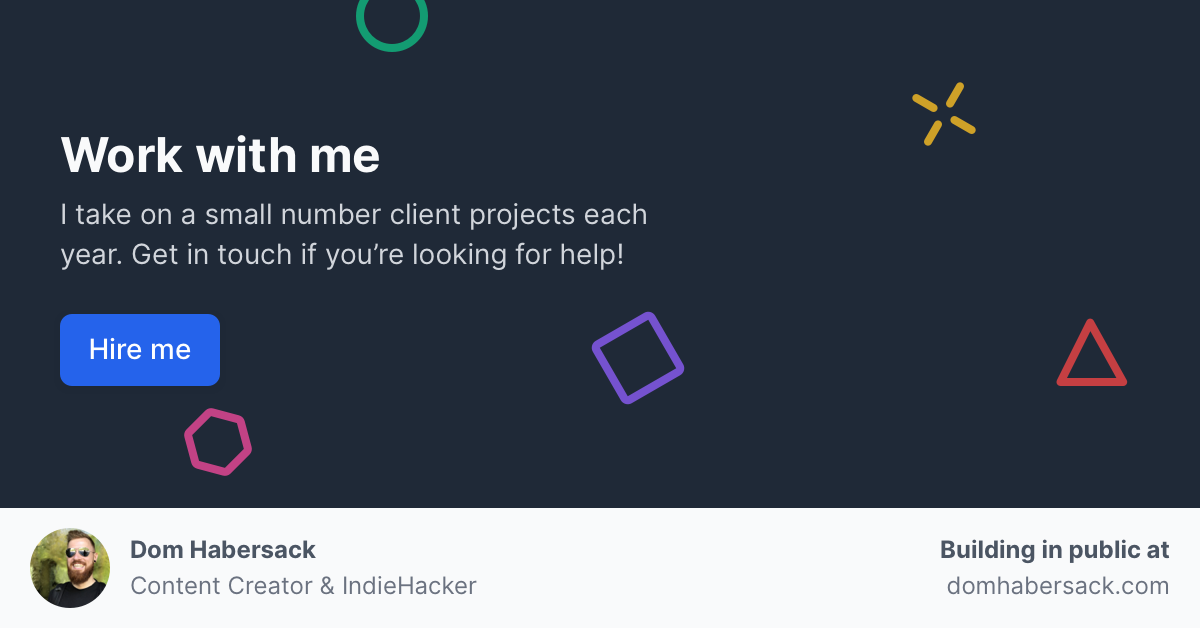
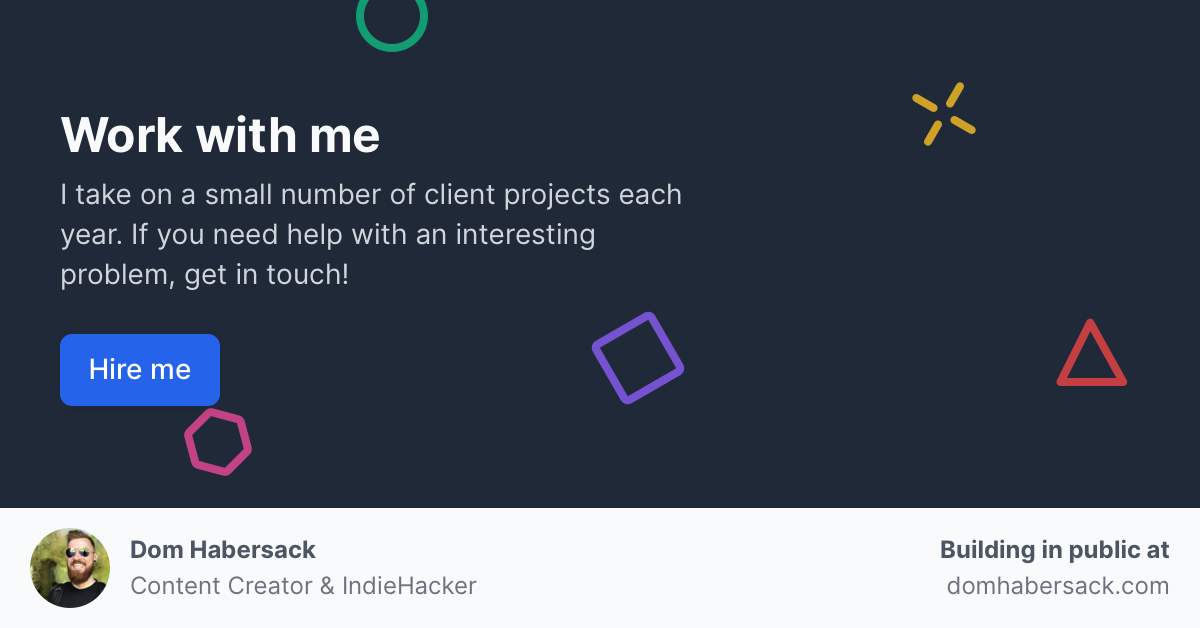
Add some description to services page, rephrase og-images

Changed region(s): [[0.0308, 0.1815, 0.5858, 0.4538], [0.0308, 0.4841, 0.185, 0.6656]]

diff --git a/pages/services.js b/pages/services.js
@@ -15,7 +15,7 @@ export default function Services() {
   return (
     <Layout breadcrumbs={breadcrumbs}>
       <MetaTags
-        description=""
+        description="My offering is based on my history of working with over a dozen mid-sized to large companies."
         ogImage="/og-image/services.png"
         permalink="/services"
         title="Services"
